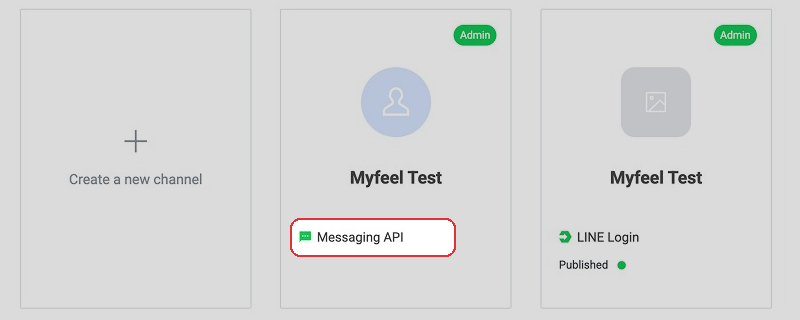
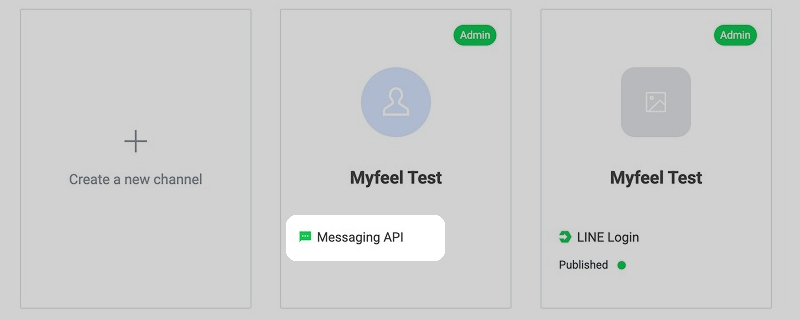
標註拔框線只留聚光、框對正；帳號清單也改帶路動畫
老闆實測第五輪：

1. 有色塊聚焦就不需要框線——全套標註拔掉紅色框線，只留「目標原亮、周圍壓暗」；
   沒了線條，邊界靠明暗對比呈現，壓暗從 14% 提到 18%。①②編號徽章保留。

2. 框對正：「手動聊天」那框右側多出一大截（延到說明文字外）最明顯，其餘幾個也
   按目標內容重算成均勻邊距。

3. 帳號清單那步也被點名「要讓人知道這在哪」——改成動畫版：先看整頁正常畫面
   （麵包屑、分頁列都在，知道自己在哪一頁）再聚焦「Messaging API」小字（16KB）。
   靜態版留給修復劇本。第二把鑰匙的修復入口（重貼 Secret）同樣換成帶路動畫，
   緊裁的靜態列圖正式退場（檔案刪除）。

全套 1371 綠、typecheck 0 錯。

Changed region(s): [[0.3438, 0.6562, 0.5938, 0.8125]]

diff --git a/app/utils/onboarding-shots.ts b/app/utils/onboarding-shots.ts
@@ -10,17 +10,17 @@
  * 「這批圖什麼時候拍的、LINE 後台改版了沒」記在 README。
  */
 export const ONBOARDING_SHOTS = {
-  /** LINE Developers 帳號清單：認卡片下方「Messaging API」小字（同名可能有兩張卡） */
+  /** LINE Developers 帳號清單（靜態，修復劇本用）：認卡片下方「Messaging API」小字 */
   consoleChannel: '/onboarding/line-console-channel.png',
+  /** 循環動畫：帳號清單整頁（含麵包屑定位）→ 聚焦「Messaging API」小字（教學用） */
+  consoleChannelAnim: '/onboarding/line-console-channel.webp',
   /** 循環動畫：切到 Messaging API 分頁 → 捲到最底 → 按 Issue 發鑰匙 → 按複製 */
   getTokenAnim: '/onboarding/line-console-get-token.webp',
   /** Messaging API 分頁最下方：發第一把鑰匙（Issue / Reissue） */
   issueToken: '/onboarding/line-console-issue-token.png',
   /** 官方帳號後台：設定 → Messaging API 按啟用（清單裡找不到帳號時的岔路） */
   oamEnableMessagingApi: '/onboarding/oam-enable-messaging-api.png',
-  /** Basic settings 分頁：第二把鑰匙 Channel secret（靜態列圖，修復劇本的小面板用） */
-  channelSecret: '/onboarding/line-console-channel-secret.png',
-  /** 循環動畫：切 Basic settings 分頁 → 捲下來 → 找到 Channel secret（教學用——緊裁列圖缺定位） */
+  /** 循環動畫：切 Basic settings 分頁 → 捲下來 → 找到 Channel secret（緊裁列圖缺定位已退場） */
   channelSecretAnim: '/onboarding/line-console-channel-secret.webp',
   /** Messaging API 分頁：Webhook URL 欄位＋Update 鈕＋Use webhook 開關（一張圖三個框） */
   webhookUrl: '/onboarding/line-console-webhook-url.png',

diff --git a/app/composables/useOnboardingChat.ts b/app/composables/useOnboardingChat.ts
@@ -314,8 +314,8 @@ export function useOnboardingChat() {
           // 真實畫面查證過的陷阱：同一個帳號會有兩張同名卡（Messaging API／LINE Login），
           // 靠名字選五五開會選錯——選錯的下場是拿到另一把不能用的鑰匙
           html: '選你的官方帳號。<b>同名卡片可能有兩張</b>——認卡片下面掛著「Messaging API」小字的那張，點進去。',
-          image: ONBOARDING_SHOTS.consoleChannel,
-          alt: '帳號清單頁，圈出卡片下方的 Messaging API 小字',
+          image: ONBOARDING_SHOTS.consoleChannelAnim,
+          alt: '循環動畫：帳號清單頁，聚焦卡片下方的 Messaging API 小字',
           detour: {
             label: '清單裡沒看到我的帳號？',
             run: async () => {
@@ -535,11 +535,10 @@ export function useOnboardingChat() {
       kind: 'help',
       summary: '在哪裡？',
       steps: [
-        { text: '同一個後台，切到 Basic settings 分頁' },
         {
-          text: '找到 Channel secret，整串複製過來',
-          image: ONBOARDING_SHOTS.channelSecret,
-          alt: 'Basic settings 分頁，圈出 Channel secret 欄位',
+          text: '照動畫做：切到 Basic settings 分頁，捲下來找到 Channel secret，整串複製過來',
+          image: ONBOARDING_SHOTS.channelSecretAnim,
+          alt: '循環動畫：切到 Basic settings 分頁、捲到 Channel secret 那一列',
         },
       ],
       href: 'https://developers.line.biz/console/',

diff --git a/scripts/make-onboarding-shots.py b/scripts/make-onboarding-shots.py
@@ -35,8 +35,8 @@ def annotate(im: Image.Image, crop, boxes=(), badges=()) -> Image.Image:
     ox, oy = crop[0], crop[1]
 
     if boxes:
-        # 周圍壓暗 14%，目標區域（圓角矩形）維持原樣
-        dark = Image.eval(im, lambda v: int(v * 0.86))
+        # 周圍壓暗 18%，目標區域（圓角矩形）維持原亮——⛔不畫框線（有色塊就夠了，拍板）
+        dark = Image.eval(im, lambda v: int(v * 0.82))
         mask = Image.new('L', im.size, 255)
         md = ImageDraw.Draw(mask)
         for (x1, y1, x2, y2) in boxes:
@@ -44,8 +44,6 @@ def annotate(im: Image.Image, crop, boxes=(), badges=()) -> Image.Image:
         im = Image.composite(dark, im, mask)
 
     d = ImageDraw.Draw(im)
-    for (x1, y1, x2, y2) in boxes:
-        d.rounded_rectangle((x1 - ox, y1 - oy, x2 - ox, y2 - oy), radius=10, outline=RED, width=2)
     for (x, y, n) in badges:
         r = 13
         d.ellipse((x - ox - r, y - oy - r, x - ox + r, y - oy + r), fill=RED)
@@ -57,26 +55,22 @@ def main() -> None:
     OUT.mkdir(parents=True, exist_ok=True)
 
     # ── 靜態圖 ──────────────────────────────────────────────────
-    # 帳號清單：只留三張卡那排，圈中間卡的「Messaging API」小字（同名雙卡認小字不認名稱）
+    # 帳號清單（修復劇本用；教學用下面的動畫版）：圈中間卡的「Messaging API」小字
     annotate(load('src-channel-list.jpg'), (270, 380, 1070, 700),
-             boxes=[(560, 598, 725, 636)]).save(OUT / 'line-console-channel.png')
+             boxes=[(556, 595, 714, 640)]).save(OUT / 'line-console-channel.png')
 
     # 發鑰匙：Messaging API 分頁最底的 Issue／Reissue 鈕
     annotate(load('src-messaging-api.jpg'), (240, 1868, 1330, 2065),
              boxes=[(1222, 1972, 1310, 2024)]).save(OUT / 'line-console-issue-token.png')
 
-    # 第二把鑰匙：Basic settings 的 Channel secret 那一列
-    annotate(load('src-basic-settings.jpg'), (240, 1555, 1330, 1800),
-             boxes=[(275, 1648, 800, 1712)]).save(OUT / 'line-console-channel-secret.png')
-
     # Webhook：①貼網址的欄位 ②Use webhook 開關（編號對齊卡片步驟）
     annotate(load('src-messaging-api.jpg'), (240, 950, 1330, 1205),
-             boxes=[(425, 1000, 710, 1090), (432, 1120, 510, 1168)],
+             boxes=[(425, 1000, 710, 1090), (434, 1117, 511, 1174)],
              badges=[(745, 1043, 1), (545, 1144, 2)]).save(OUT / 'line-console-webhook-url.png')
 
     # 關自動回應：回應設定頁，圈「手動聊天」（新版介面沒有「聊天機器人」那組選項了）
     annotate(load('src-oam-response.jpg'), (250, 545, 1330, 950),
-             boxes=[(542, 748, 756, 795)]).save(OUT / 'oam-auto-reply.png')
+             boxes=[(546, 750, 652, 792)]).save(OUT / 'oam-auto-reply.png')
 
     # ── 循環動畫：切分頁 → 捲到底 → 按 Issue → 按複製 ──────────
     src = load('src-messaging-api.jpg')
@@ -86,13 +80,11 @@ def main() -> None:
         im = src.crop((x0, top, x1, top + vh))
         if box:
             # 與靜態圖同一套聚光式標註（縮圖後線寬會除以 ~1.24，這裡畫粗一點）
-            dark = Image.eval(im, lambda v: int(v * 0.86))
+            dark = Image.eval(im, lambda v: int(v * 0.82))
             mask = Image.new('L', im.size, 255)
             ImageDraw.Draw(mask).rounded_rectangle(
                 (box[0] - x0, box[1] - top, box[2] - x0, box[3] - top), radius=10, fill=0)
             im = Image.composite(dark, im, mask)
-            ImageDraw.Draw(im).rounded_rectangle(
-                (box[0] - x0, box[1] - top, box[2] - x0, box[3] - top), radius=10, outline=RED, width=3)
         return im.resize((target_w, int(vh * target_w / (x1 - x0))))
 
     tab = (432, 332, 558, 378)          # Messaging API 分頁
@@ -123,17 +115,15 @@ def main() -> None:
     def frame2(top: int, box=None) -> Image.Image:
         im = src2.crop((x0, top, x1, top + vh))
         if box:
-            dark = Image.eval(im, lambda v: int(v * 0.86))
+            dark = Image.eval(im, lambda v: int(v * 0.82))
             mask = Image.new('L', im.size, 255)
             ImageDraw.Draw(mask).rounded_rectangle(
                 (box[0] - x0, box[1] - top, box[2] - x0, box[3] - top), radius=10, fill=0)
             im = Image.composite(dark, im, mask)
-            ImageDraw.Draw(im).rounded_rectangle(
-                (box[0] - x0, box[1] - top, box[2] - x0, box[3] - top), radius=10, outline=RED, width=3)
         return im.resize((target_w, int(vh * target_w / (x1 - x0))))
 
     bs_tab = (295, 330, 420, 372)        # Basic settings 分頁
-    secret_row = (275, 1648, 800, 1712)  # Channel secret 那一列
+    secret_row = (270, 1651, 800, 1715)  # Channel secret 那一列
     spec2 = [
         (90, None, 900),      # 開場：先看正常畫面，再聚焦
         (90, bs_tab, 1600),   # 停：切到 Basic settings 分頁
@@ -147,6 +137,24 @@ def main() -> None:
     frames2[0].save(OUT / 'line-console-channel-secret.webp', save_all=True,
                     append_images=frames2[1:], duration=[d for _, _, d in spec2],
                     loop=0, quality=82, method=4)
+
+    # ── 循環動畫：帳號清單——先看整頁（含麵包屑，知道自己在哪）再聚焦小字 ──
+    src3 = load('src-channel-list.jpg')
+
+    def frame3(box=None) -> Image.Image:
+        im = src3.crop((240, 84, 1330, 704))
+        if box:
+            dark = Image.eval(im, lambda v: int(v * 0.82))
+            mask = Image.new('L', im.size, 255)
+            ImageDraw.Draw(mask).rounded_rectangle(
+                (box[0] - 240, box[1] - 84, box[2] - 240, box[3] - 84), radius=10, fill=0)
+            im = Image.composite(dark, im, mask)
+        return im.resize((target_w, int(im.height * target_w / im.width)))
+
+    label = (556, 595, 714, 640)  # 中間卡的「Messaging API」小字
+    frames3 = [frame3(), frame3(label)]
+    frames3[0].save(OUT / 'line-console-channel.webp', save_all=True,
+                    append_images=frames3[1:], duration=[1100, 2400], loop=0, quality=82, method=4)
 
     for f in sorted(OUT.iterdir()):
         if f.suffix in ('.png', '.webp'):
